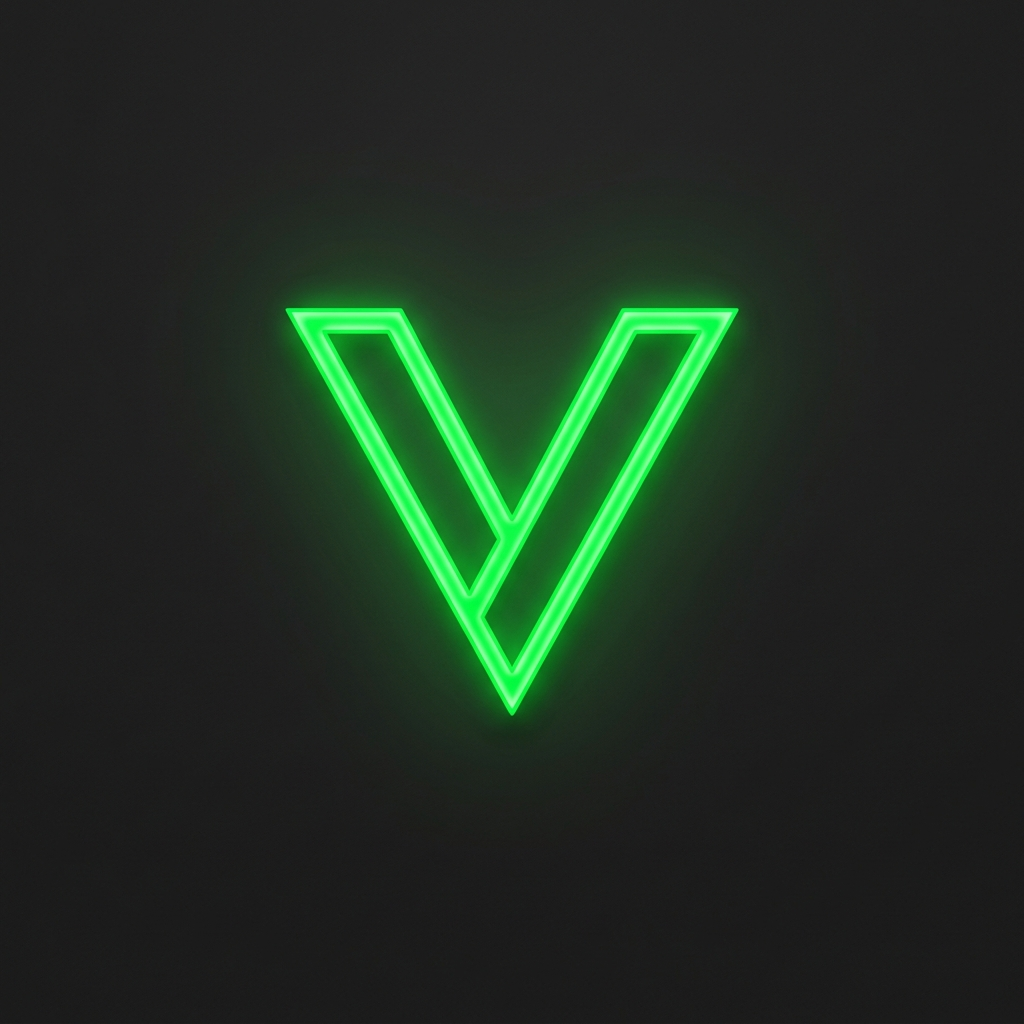
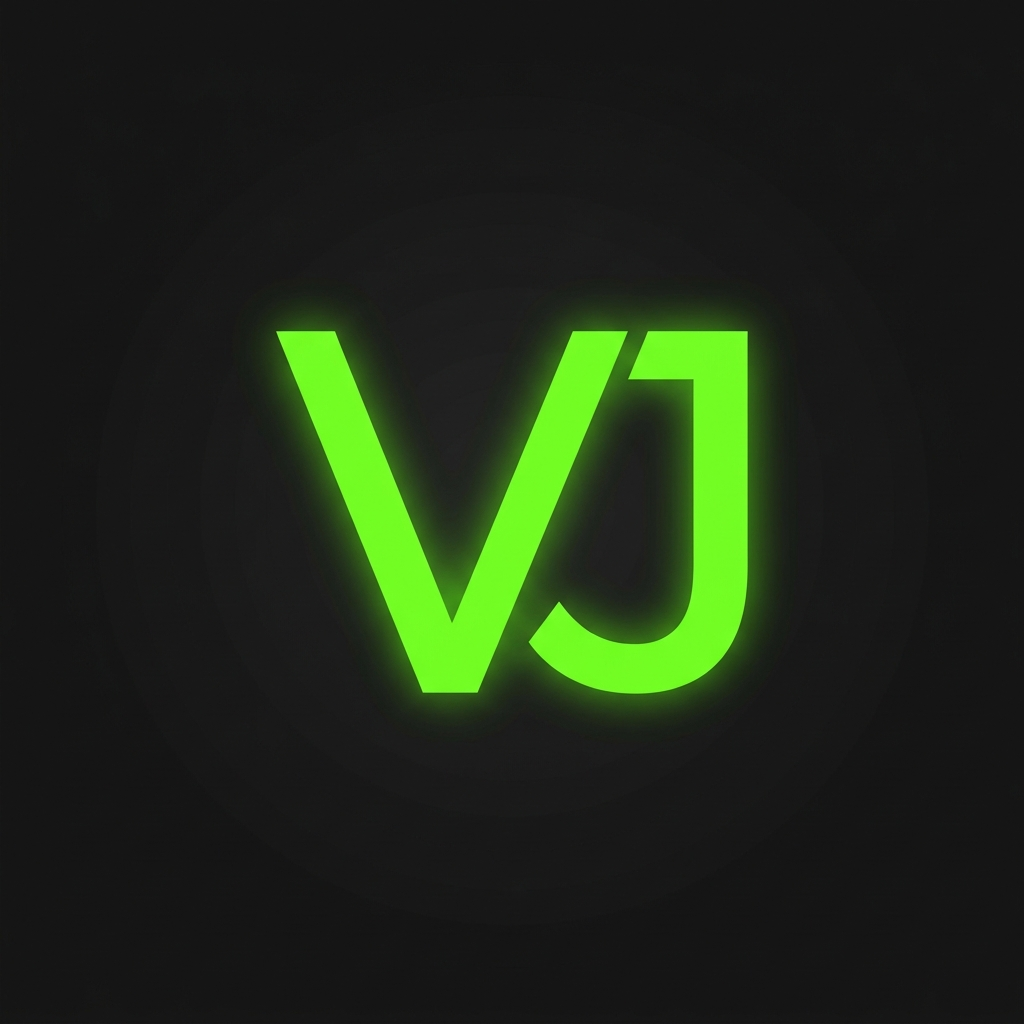
Removed dark mode toggle button

Changed region(s): [[0.25, 0.2188, 0.75, 0.7188]]

diff --git a/src/components/sections/hero-section.tsx b/src/components/sections/hero-section.tsx
@@ -154,8 +154,8 @@ export function HeroSection() {
         <div 
           className="absolute inset-0"
           style={{
-            maskImage: "linear-gradient(to bottom, black 60%, transparent 100%), linear-gradient(to left, black 80%, transparent 100%)",
-            WebkitMaskImage: "linear-gradient(to bottom, black 60%, transparent 100%), linear-gradient(to left, black 80%, transparent 100%)",
+            maskImage: "linear-gradient(to bottom, transparent 0%, black 15%, black 60%, transparent 100%), linear-gradient(to left, black 80%, transparent 100%)",
+            WebkitMaskImage: "linear-gradient(to bottom, transparent 0%, black 15%, black 60%, transparent 100%), linear-gradient(to left, black 80%, transparent 100%)",
             WebkitMaskComposite: "source-in",
             maskComposite: "intersect"
           }}
@@ -164,7 +164,7 @@ export function HeroSection() {
             src="/viraj.png" 
             alt="Viraj Jain" 
             fill 
-            className="object-cover object-top lg:object-center opacity-80 mix-blend-screen"
+            className="object-cover object-top lg:object-center opacity-60 md:opacity-80 mix-blend-screen transition-opacity"
             priority
             sizes="(max-width: 768px) 100vw, 50vw"
           />
@@ -180,12 +180,12 @@ export function HeroSection() {
           
           <h1 
             ref={titleRef}
-            className="text-5xl md:text-7xl lg:text-8xl font-heading font-bold tracking-tighter mb-4 text-balance"
+            className="text-5xl md:text-7xl lg:text-8xl font-heading font-bold tracking-tighter mb-4 text-balance drop-shadow-lg"
           >
             {PORTFOLIO_DATA.hero.greeting} <span className="text-primary">{PORTFOLIO_DATA.name}</span>
           </h1>
           
-          <div ref={subtitleRef} className="h-[40px] md:h-[60px] flex items-center justify-center lg:justify-start mb-6 overflow-hidden w-full">
+          <div ref={subtitleRef} className="h-[40px] md:h-[60px] flex items-center justify-center lg:justify-start mb-6 overflow-hidden w-full drop-shadow-lg">
             <motion.p 
               key={roleIndex}
               initial={{ opacity: 0, y: 20 }}
@@ -200,7 +200,7 @@ export function HeroSection() {
           
           <p 
             ref={descriptionRef}
-            className="text-lg md:text-xl text-muted-foreground max-w-2xl text-balance mb-10"
+            className="text-lg md:text-xl text-muted-foreground max-w-2xl text-balance mb-10 drop-shadow-lg font-medium"
           >
             {PORTFOLIO_DATA.hero.valueProp}
           </p>

diff --git a/src/components/navbar.tsx b/src/components/navbar.tsx
@@ -5,7 +5,6 @@ import Link from "next/link";
 import { motion, AnimatePresence } from "framer-motion";
 import { Menu, X } from "lucide-react";
 import { cn } from "@/lib/utils";
-import { ThemeToggle } from "@/components/theme-toggle";
 
 const NAV_LINKS = [
   { name: "Home", href: "#home" },
@@ -89,12 +88,10 @@ export function Navbar() {
           >
             Resume
           </a>
-          <ThemeToggle />
         </nav>
 
         {/* Mobile Nav Toggle */}
         <div className="flex md:hidden items-center gap-4">
-          <ThemeToggle />
           <button
             className="text-foreground hover:text-primary transition-colors"
             onClick={() => setIsMobileMenuOpen(!isMobileMenuOpen)}